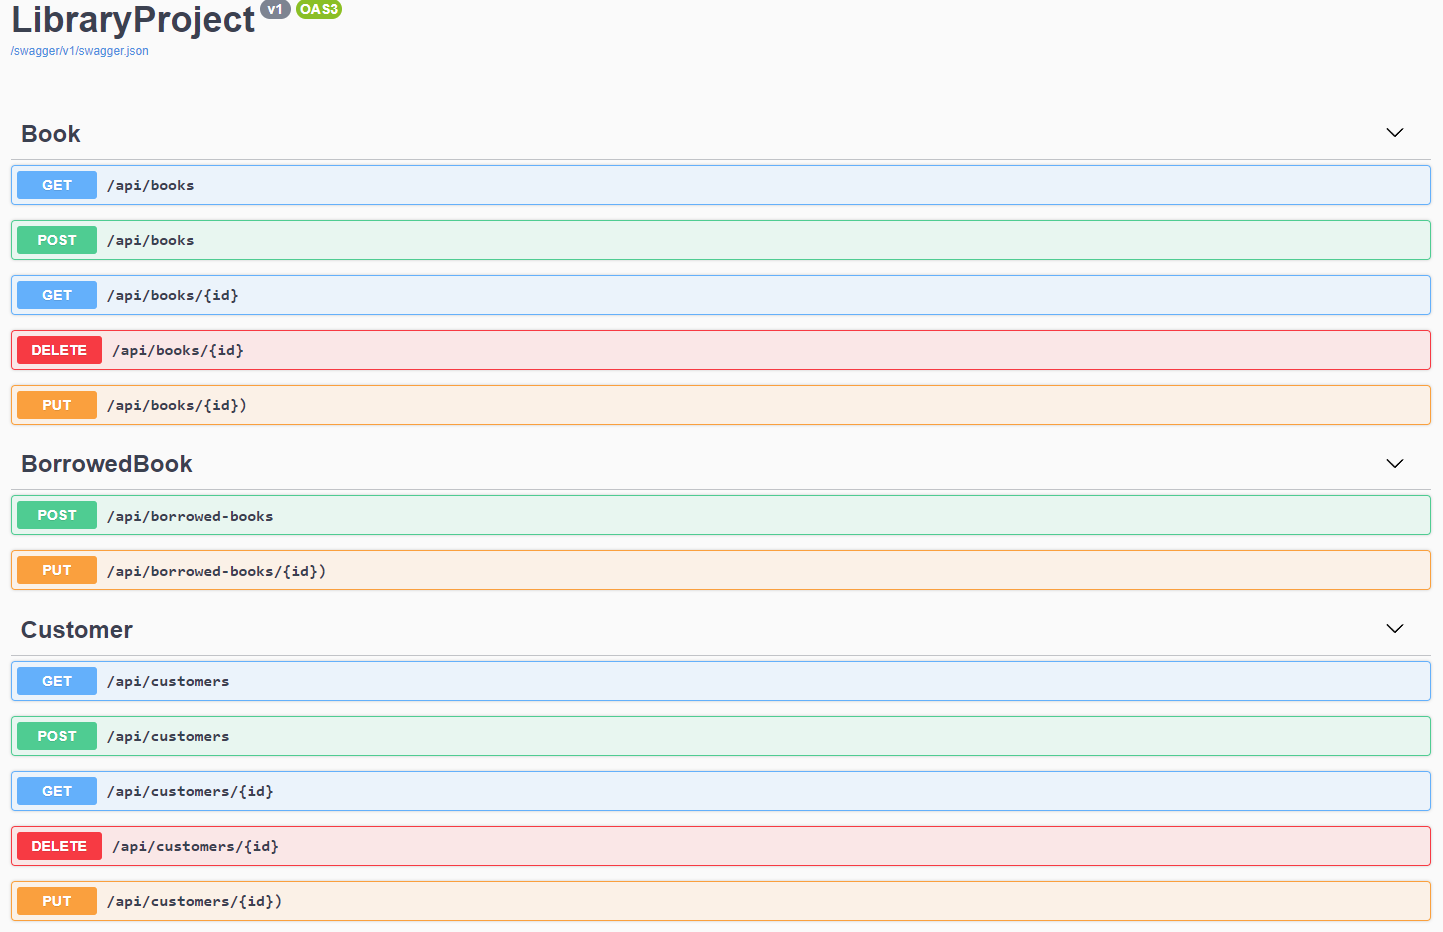
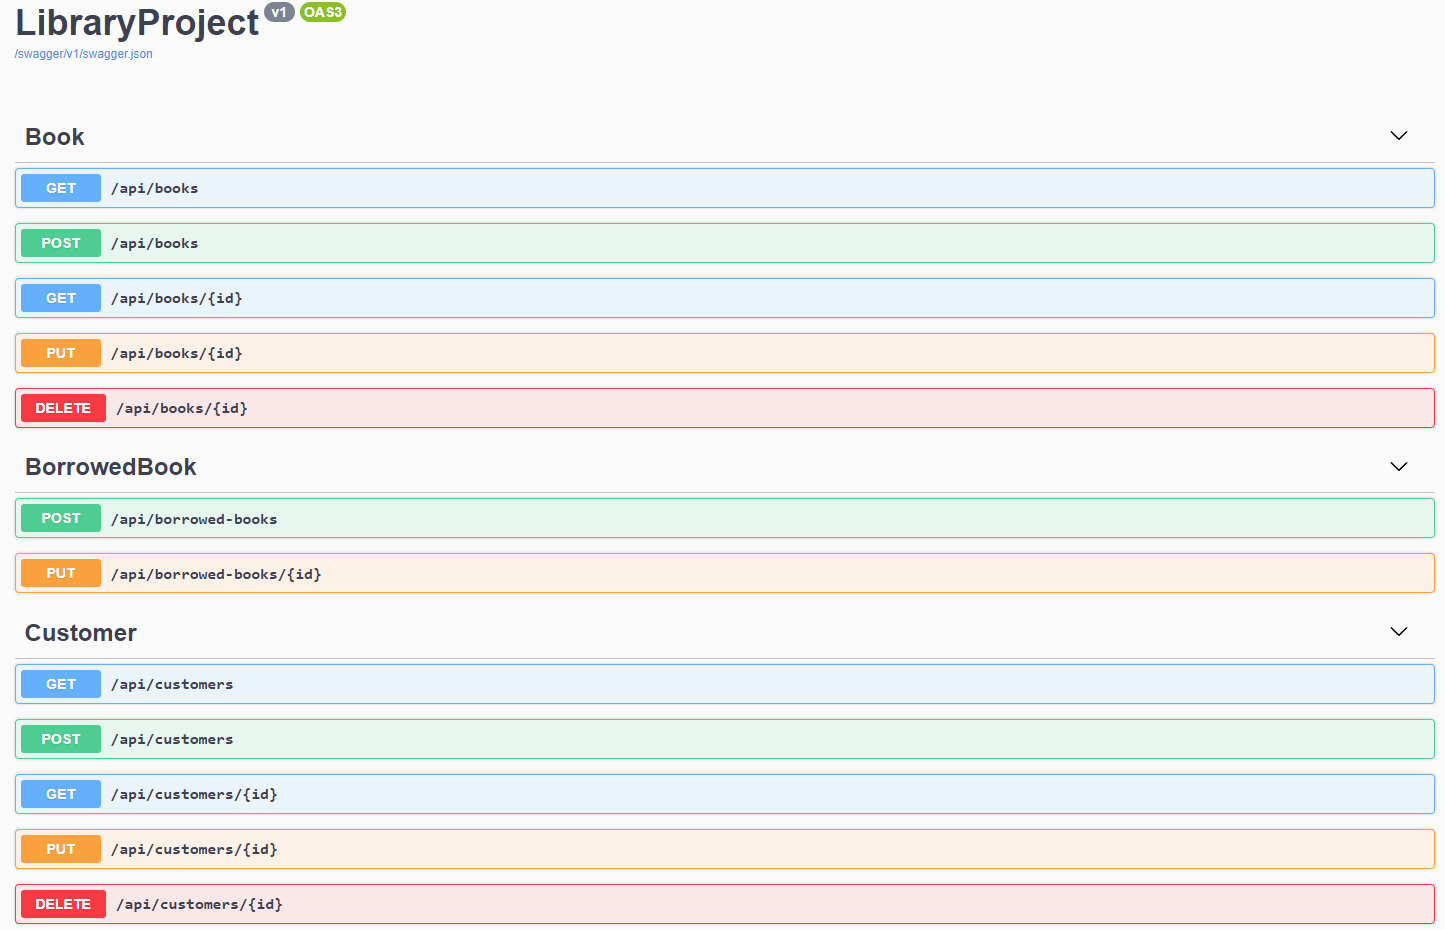
correct path HttpPut

Changed region(s): [[0.0, 0.1247, 0.9979, 0.9978], [0.0, 0.0, 0.2495, 0.0624]]

diff --git a/LibraryProject/LibraryProject/Controllers/BorrowedBookController.cs b/LibraryProject/LibraryProject/Controllers/BorrowedBookController.cs
@@ -27,7 +27,7 @@ namespace LibraryProject.Controllers
             return Created($"/api/borrowed-books/{id}", null);
         }
 
-        [HttpPut("{id})")]
+        [HttpPut("{id}")]
         public ActionResult ReturndBook([FromBody] ReturnBorrowedBookDto dto, [FromRoute] int id)
         {
             _borrowedBookService.Update(id, dto);

diff --git a/LibraryProject/LibraryProject/Controllers/CustomerController.cs b/LibraryProject/LibraryProject/Controllers/CustomerController.cs
@@ -35,7 +35,7 @@ namespace LibraryProject.Controllers
             return Created($"/api/customers/{id}", null);
         }
 
-        [HttpPut("{id})")]
+        [HttpPut("{id}")]
         public ActionResult UpdateCustomer([FromBody] UpdateCustomerDto dto, [FromRoute] int id)
         {
             _customerService.Update(id, dto);

diff --git a/LibraryProject/LibraryProject/Controllers/BookController.cs b/LibraryProject/LibraryProject/Controllers/BookController.cs
@@ -36,7 +36,7 @@ namespace LibraryProject.Controllers
             return Created($"/api/books/{id}", null);
         }
 
-        [HttpPut("{id})")]
+        [HttpPut("{id}")]
         public ActionResult UpdateBook([FromBody] UpdateBookStatusDto dto, [FromRoute] int id)
         {
             _bookService.UpdateStatus(id, dto);
